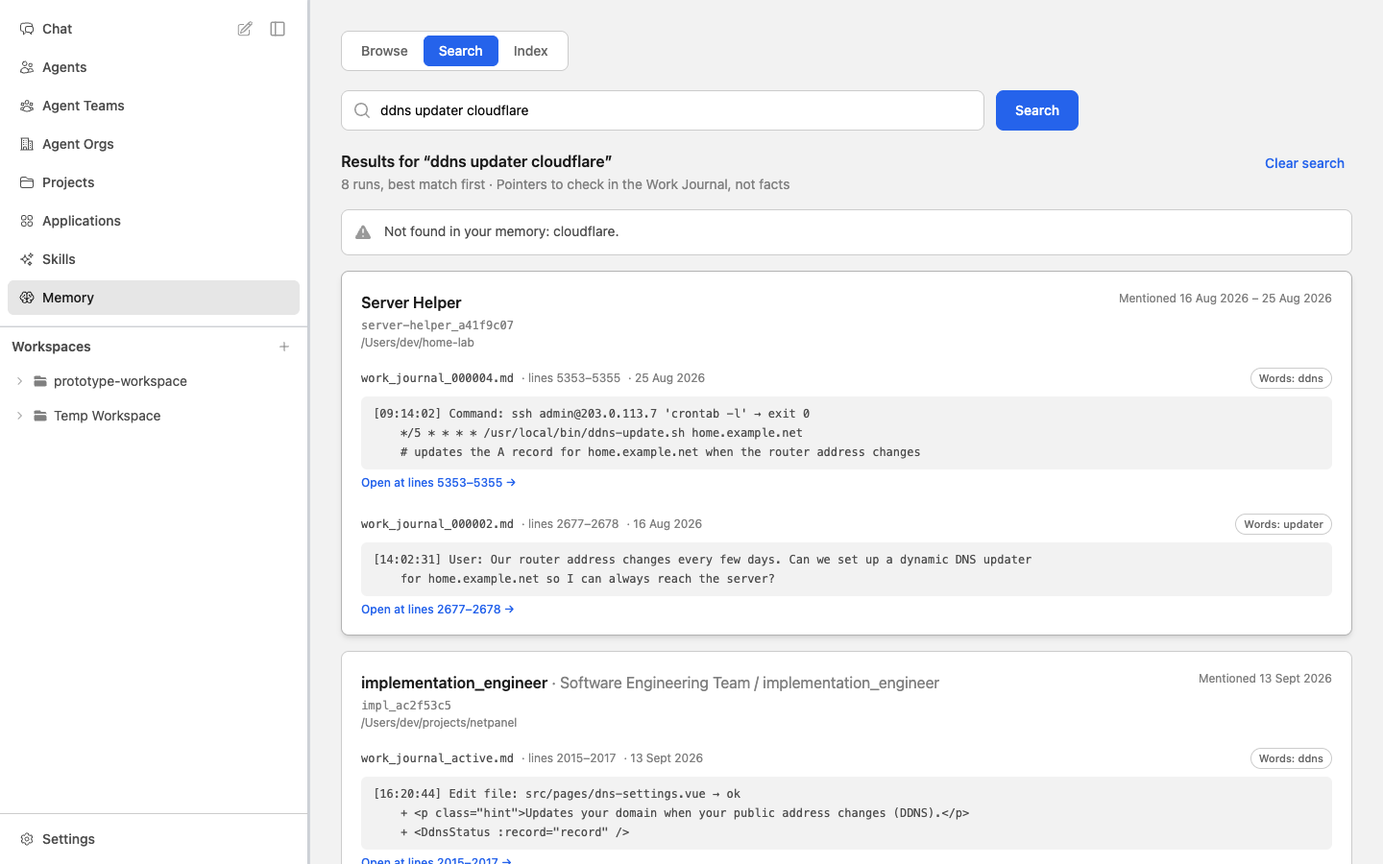
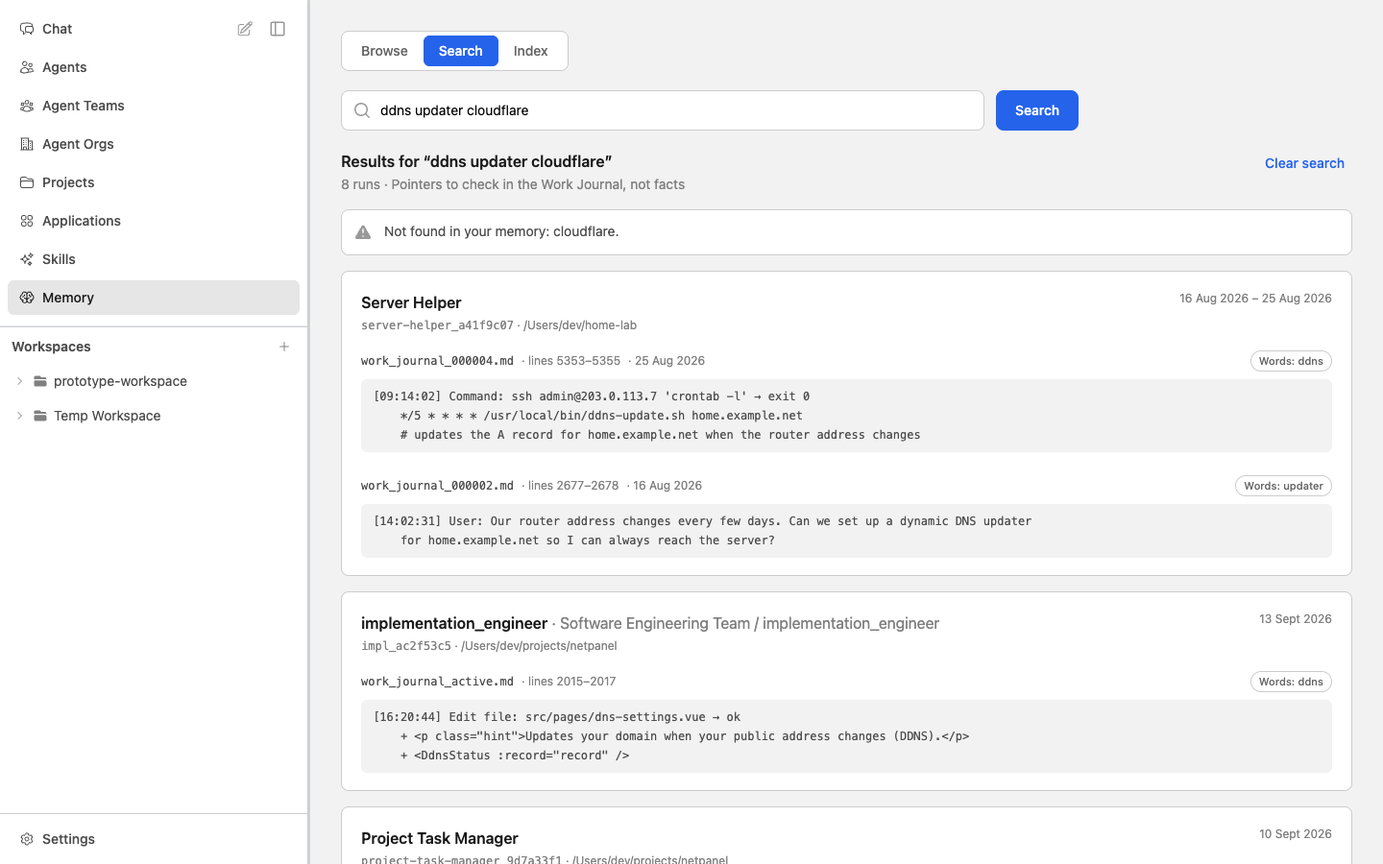
design(work-journal-search): cleaner result cards (no 'Mentioned', one-line run ID and workspace, day only when needed, Open on hover, shorter not-found note); VIS recaptured

diff --git a/components/memory/MemorySearchResults.vue b/components/memory/MemorySearchResults.vue
@@ -36,8 +36,7 @@
             <div class="flex flex-col gap-1 md:flex-row md:items-start md:justify-between md:gap-3">
               <div class="min-w-0">
                 <h3 class="break-words text-base font-semibold text-gray-900">{{ result.agentName }}<span v-if="result.team" class="font-normal text-gray-500"> · {{ result.team.name }}<template v-if="result.member"> / {{ result.member }}</template></span></h3>
-                <p class="mt-1 break-all font-mono text-xs text-gray-500">{{ result.runId }}</p>
-                <p v-if="result.workspace" class="mt-0.5 break-all text-xs text-gray-500">{{ result.workspace }}</p>
+                <p class="mt-1 break-all text-xs text-gray-500"><span class="font-mono">{{ result.runId }}</span><template v-if="result.workspace"> · {{ result.workspace }}</template></p>
               </div>
               <p class="flex-shrink-0 text-xs text-gray-500" data-test="memory-result-days">{{ days(result) }}</p>
             </div>
@@ -48,11 +47,13 @@
                 <div class="flex flex-wrap items-center gap-x-2 gap-y-1 text-xs text-gray-500">
                   <span class="font-mono text-gray-700">{{ match.file }}</span>
                   <span>· {{ $t('memory.results.lines', { from: match.fromLine, to: match.toLine }) }}</span>
-                  <span>· {{ formatDay(match.day) }}</span>
-                  <span v-if="match.kind === 'text'" class="ml-auto min-w-0 max-w-full rounded-full border border-gray-200 px-2 py-0.5 text-[11px] font-medium text-gray-600" data-test="memory-match-words">{{ $t('memory.results.words_label', { words: match.matchedWords.join($t('memory.results.word_separator')) }) }}</span>
+                  <span v-if="showMatchDay(result, match)">· {{ formatDay(match.day) }}</span>
+                  <span class="ml-auto flex min-w-0 max-w-full items-center gap-2">
+                    <span class="flex-shrink-0 text-xs font-medium text-blue-600 opacity-0 transition group-hover:opacity-100 group-focus-visible:opacity-100">{{ $t('memory.results.open') }} →</span>
+                    <span v-if="match.kind === 'text'" class="min-w-0 rounded-full border border-gray-200 px-2 py-0.5 text-[11px] font-medium text-gray-600" data-test="memory-match-words">{{ $t('memory.results.words_label', { words: match.matchedWords.join($t('memory.results.word_separator')) }) }}</span>
+                  </span>
                 </div>
                 <div class="mt-2 rounded-md bg-gray-50 px-3 py-2 font-mono text-xs leading-5 text-gray-700 group-hover:bg-white" data-test="memory-snippet"><div v-for="(line, i) in match.snippet" :key="i" class="truncate whitespace-pre">{{ line }}</div></div>
-                <p class="mt-1.5 text-xs font-medium text-blue-600 group-hover:underline">{{ $t('memory.results.open_at', { from: match.fromLine, to: match.toLine }) }} →</p>
               </button>
             </li>
           </ul>
@@ -84,6 +85,8 @@ const formatDay = (day: string) => {
   const date = new Date(`${day}T12:00:00Z`);
   return Number.isNaN(date.getTime()) ? day : date.toLocaleDateString(undefined, { day: 'numeric', month: 'short', year: 'numeric', timeZone: 'UTC' });
 };
+/** A match's own day is shown only when the card's date does not already say it. */
+const showMatchDay = (result: SearchResult, match: SearchMatch) => result.firstDay !== result.latestDay || match.day !== result.latestDay;
 const days = (result: SearchResult) => (result.firstDay === result.latestDay
   ? t('memory.results.mentioned_one', { day: formatDay(result.latestDay) })
   : t('memory.results.mentioned_range', { first: formatDay(result.firstDay), latest: formatDay(result.latestDay) }));

diff --git a/localization/messages/zh-CN/memory.ts b/localization/messages/zh-CN/memory.ts
@@ -46,7 +46,7 @@ const memoryMessages = {
   'memory.index.cancel': '取消',
   'memory.index.rebuild_confirm': '重建会重新执行每一步。运行期间搜索覆盖的记忆会减少。',
   'memory.results.title': '“{{cue}}”的结果',
-  'memory.results.count': '{{count}} 个运行，最佳匹配在前',
+  'memory.results.count': '{{count}} 个运行',
   'memory.results.pointers': '这是需要在工作日志中核对的线索，不是事实',
   'memory.results.clear': '清除搜索',
   'memory.results.searching': '正在搜索…',
@@ -54,10 +54,9 @@ const memoryMessages = {
   'memory.results.retry': '重试',
   'memory.results.coverage_text': '仍在建立索引：文本索引只覆盖了 {{percent}}% 的日志，较早的工作可能缺失。',
   'memory.results.coverage_meaning': '仍在建立索引：语义索引只覆盖了 {{percent}}% 的日志，之后可能出现更多语义匹配。',
-  'memory.results.mentioned_one': '提到于 {{day}}',
-  'memory.results.mentioned_range': '提到于 {{first}} – {{latest}}',
+  'memory.results.mentioned_one': '{{day}}',
+  'memory.results.mentioned_range': '{{first}} – {{latest}}',
   'memory.results.lines': '第 {{from}}–{{to}} 行',
-  'memory.results.open_at': '打开第 {{from}}–{{to}} 行',
   'memory.journal.found_from': '来自你的搜索“{{cue}}”',
   'memory.journal.found_lines': '匹配的行',
   'memory.journal.match_n': '匹配 {{number}}',
@@ -100,8 +99,9 @@ const memoryMessages = {
   'memory.badges.no_raw_traces': '没有原始轨迹',
   'memory.results.words_label': '词：{{words}}',
   'memory.results.word_separator': '、',
-  'memory.results.none_found': '你的记忆中没有出现这些词：{{words}}。下面的结果只是语义相关。',
+  'memory.results.none_found': '你的记忆中没有出现这些词：{{words}}。',
   'memory.results.some_not_found': '你的记忆中未找到：{{words}}。',
+  'memory.results.open': '打开',
 } satisfies TranslationCatalog;
 
 export default memoryMessages;

diff --git a/localization/messages/en/memory.ts b/localization/messages/en/memory.ts
@@ -46,7 +46,7 @@ const memoryMessages = {
   'memory.index.cancel': 'Cancel',
   'memory.index.rebuild_confirm': 'Rebuild starts every step again. Search covers less of your memory while it runs.',
   'memory.results.title': 'Results for “{{cue}}”',
-  'memory.results.count': '{{count}} runs, best match first',
+  'memory.results.count': '{{count}} runs',
   'memory.results.pointers': 'Pointers to check in the Work Journal, not facts',
   'memory.results.clear': 'Clear search',
   'memory.results.searching': 'Searching…',
@@ -54,10 +54,9 @@ const memoryMessages = {
   'memory.results.retry': 'Retry',
   'memory.results.coverage_text': 'Still indexing: the Text index covers {{percent}}% of your journals, so older work may be missing.',
   'memory.results.coverage_meaning': 'Still indexing: the Meaning index covers {{percent}}% of your journals, so more matches by meaning may appear.',
-  'memory.results.mentioned_one': 'Mentioned {{day}}',
-  'memory.results.mentioned_range': 'Mentioned {{first}} – {{latest}}',
+  'memory.results.mentioned_one': '{{day}}',
+  'memory.results.mentioned_range': '{{first}} – {{latest}}',
   'memory.results.lines': 'lines {{from}}–{{to}}',
-  'memory.results.open_at': 'Open at lines {{from}}–{{to}}',
   'memory.journal.found_from': 'From your search “{{cue}}”',
   'memory.journal.found_lines': 'Matched lines',
   'memory.journal.match_n': 'Match {{number}}',
@@ -100,8 +99,9 @@ const memoryMessages = {
   'memory.badges.no_raw_traces': 'No Raw traces',
   'memory.results.words_label': 'Words: {{words}}',
   'memory.results.word_separator': ', ',
-  'memory.results.none_found': 'None of these words appear in your memory: {{words}}. The results below are only related by meaning.',
+  'memory.results.none_found': 'None of these words appear in your memory: {{words}}.',
   'memory.results.some_not_found': 'Not found in your memory: {{words}}.',
+  'memory.results.open': 'Open',
 } satisfies TranslationCatalog;
 
 export default memoryMessages;

diff --git a/tickets/in-progress/work-journal-search/ui-ux-spec.md b/tickets/in-progress/work-journal-search/ui-ux-spec.md
@@ -34,7 +34,7 @@ Canonical contract for the Memory page of AutoByteus Web: memory search, the mem
   4. **The Search tab starts with the box centred, like Google's start page** (the user, round 4); the box moves to the top once there are results.
   5. **The pipeline is four connected step cards** with state, progress bar and "X of Y". The status headline above them says where the build is. No repeated "search by words / meaning ready" rows (the user: "is it really needed?").
   6. **Rebuild is always on the Index tab** (the user asked for it); it waits, greyed with a reason, while a build runs.
-  7. **No grade on a match; facts instead (UD-020, the user, 2026-10-27: "lets remove it. otherwise later during testing we still fail").** Embedding scores have no reliable absolute meaning, so the page shows what the index can check: a text match lists the search words found in it (`Words: ddns, home`); a meaning match has no label and no grade (a card without a `Words:` label is a meaning match); and a note names the search words that occur in no journal (`Not found in your memory: cloudflare.` or, when none of the words occur, `None of these words appear in your memory: purple, elephant. The results below are only related by meaning.`). The page never says "nothing in memory" while results exist. This replaces the earlier Strong / Fair / Weak chips and the amber "Only weak matches" note.
+  7. **No grade on a match; facts instead (UD-020, the user, 2026-10-27: "lets remove it. otherwise later during testing we still fail").** Embedding scores have no reliable absolute meaning, so the page shows what the index can check: a text match lists the search words found in it (`Words: ddns, home`); a meaning match has no label and no grade (a card without a `Words:` label is a meaning match); and a note names the search words that occur in no journal (`Not found in your memory: cloudflare.` or, when none of the words occur, `None of these words appear in your memory: purple, elephant.`). The page never says "nothing in memory" while results exist. This replaces the earlier Strong / Fair / Weak chips and the amber "Only weak matches" note.
   8. **Working Context is removed** from the run detail (user's question, round 4: "do we really need it?"; the Product UI/UX Designer recommended removal). It is the agent's live context window, not a record of what happened; the Work Journal is the readable account and Raw Traces the authority. The run detail has two tabs: Work Journal and Raw Traces.
   9. **Work Journal view uses windows of lines**, not endless scroll: a file can be several MB.
   10. **The old "Memory source" card is shown only when more than one memory source exists** (imported memory is held back); the search is local-only.
@@ -111,7 +111,7 @@ Canonical contract for the Memory page of AutoByteus Web: memory search, the mem
 
 **UXJ-002 Search and open.** Entry: Search tab. Type a cue, Enter or **Search**. A short searching state, then the results (one card per run, best first). The user clicks a match (or the card header, which opens the first match). The run detail opens on the Work Journal at the matched file and lines: the file is selected, the lines are highlighted and scrolled into view, a banner names the cue and the match (`lines 5353–5355 · Words: ddns, home`; a meaning match shows only `lines 310–311`), and, when the run has two matches, *Match 1 / Match 2* buttons jump between them. **Back to search results** returns to the same results (the cue is in the address). Visuals: VIS-006, VIS-017, VIS-024.
 
-**UXJ-003 Honest results.** Each text match lists the search words found in it; a meaning match carries no label. When some search words occur in no journal, a gray note names them (`Not found in your memory: cloudflare.`); when none of them do and the results are only related by meaning, an amber note says so (`None of these words appear in your memory: purple, elephant. The results below are only related by meaning.`), and the results are still listed. While the Text index is incomplete these notes are not shown (absence is not yet certain); only the coverage note is. Partial coverage: a blue note says how much the Text or Meaning index covers. Failure: a red note with **Retry**. The page never says "nothing in memory". Visuals: VIS-006, VIS-007, VIS-025, VIS-008, VIS-009, VIS-026.
+**UXJ-003 Honest results.** Each text match lists the search words found in it; a meaning match carries no label. When some search words occur in no journal, a gray note names them (`Not found in your memory: cloudflare.`); when none of them do, an amber note says so (`None of these words appear in your memory: purple, elephant.`), and the results are still listed. While the Text index is incomplete these notes are not shown (absence is not yet certain); only the coverage note is. Partial coverage: a blue note says how much the Text or Meaning index covers. Failure: a red note with **Retry**. The page never says "nothing in memory". Visuals: VIS-006, VIS-007, VIS-025, VIS-008, VIS-009, VIS-026.
 
 **UXJ-004 First build.** Not indexed: the Search box is disabled and says "Index your memory to search it…"; the Search tab offers **Index now**; the Index tab shows the first-time text and the four steps waiting, with **Index now**. Clicking starts the build (only by this click). The steps run in order; the headline reads `Step N of 4 · <step> P%`; the Index tab shows a spinner and the percent. As soon as the Text index has content the Search box is enabled and results say how much is covered. When the Meaning index finishes the headline reads `Up to date`. Visuals: VIS-010…VIS-014, VIS-023.
 
@@ -162,8 +162,8 @@ Canonical contract for the Memory page of AutoByteus Web: memory search, the mem
 | Browse: nothing yet | No memory of that kind | Existing empty copy | — | — | Unchanged — follows baseline |
 | Search empty | Open Search | Centred box; placeholder "Describe what you remember, in any words or language…" | Type | — | VIS-005 |
 | Search not indexed | Index never built | Disabled box ("Index your memory to search it…"); "Memory is not indexed yet" / "Index your memory once to search what your agents did before. Search by words is ready after about 5 minutes on a large memory." and **Index now** | Index now | Index tab | VIS-010 |
-| Search results | Cue answered | `Results for “<cue>”`, `N runs, best match first · Pointers to check in the Work Journal, not facts`; cards | Open, Clear search | Clear | VIS-006 |
-| Search: none of the words found | Every search word occurs in no journal; results exist | Amber note "None of these words appear in your memory: <words>. The results below are only related by meaning."; no match carries a `Words:` label | Open, new cue | Clear | VIS-007 |
+| Search results | Cue answered | `Results for “<cue>”`, `N runs · Pointers to check in the Work Journal, not facts`; cards | Open, Clear search | Clear | VIS-006 |
+| Search: none of the words found | Every search word occurs in no journal; results exist | Amber note "None of these words appear in your memory: <words>."; no match carries a `Words:` label | Open, new cue | Clear | VIS-007 |
 | Search: some words not found | Some search words occur in no journal | Gray note "Not found in your memory: <words>."; the matches list their found words | Open, new cue | Clear | VIS-025 |
 | Search partial coverage | A step incomplete | Blue note "Still indexing: the Text index covers N% of your journals, so older work may be missing." (or the Meaning index wording) | Open | — | VIS-008 |
 | Search failed | Search error | Red "The search could not be completed." with **Retry** | Retry, Clear | — | VIS-009 |
@@ -181,7 +181,7 @@ Canonical contract for the Memory page of AutoByteus Web: memory search, the mem
 ## Content, Labels, Validation, And Feedback
 
 - **Voice and wording.** Plain, short, no repeated words. Domain words: **memory**, **memory search**, **memory index**, **Work Journal**, **Raw traces**; the old words "Episodic" and "Semantic" appear nowhere (tabs, badges, strings, docs). Dates follow the browser locale.
-- **Exact labels.** Tabs: `Browse`, `Search`, `Index`. Browse sub-tabs: `Agents`, `Agent Teams`, `Agent Orgs`. Filter placeholders: `Filter agents by name or run ID…`, `Filter agent teams by name…`, `Filter agent orgs by name…`, `Filter runs by title or run ID…`. Search: `Search`, `Clear search`, `Retry`, `View the index`. Pipeline: `Find runs — Every run folder on this node`; `Journals — Each run’s Work Journal made current`; `Text index — Search by words works from here`; `Search by meaning, in the background` (Meaning index); step counts `X of Y runs|journal files · P%`; `Waiting`. Actions: `Index now`, `Try again`, `Rebuild`, `Cancel`. Match: `Words: <found words>` (text match only; separator `, `, in zh-CN `、`; a meaning match carries no label); notes `None of these words appear in your memory: <words>. The results below are only related by meaning.` and `Not found in your memory: <words>.`; `lines a–b`; `Open at lines a–b →`; `Mentioned <day>` / `Mentioned <first> – <latest>`. Journal: `Files`, `Active`, `Matched lines`, `Jump to day`, `Go to line`, `Go`, `Show 300 earlier lines`, `Show 300 later lines`, `<n> not shown`, `Lines a–b of N`, `From your search “<cue>”`, `Match 1`. Run detail tabs: `Work Journal`, `Raw Traces`. Exceptions note: `No Work Journal`, `No Raw traces`, `Archive`. Embedding note: `The Meaning index uses the embedding model chosen in Server Settings → Embedding (<model>).` with the link `Embedding settings` (to Server Settings → Embedding).
+- **Exact labels.** Tabs: `Browse`, `Search`, `Index`. Browse sub-tabs: `Agents`, `Agent Teams`, `Agent Orgs`. Filter placeholders: `Filter agents by name or run ID…`, `Filter agent teams by name…`, `Filter agent orgs by name…`, `Filter runs by title or run ID…`. Search: `Search`, `Clear search`, `Retry`, `View the index`. Pipeline: `Find runs — Every run folder on this node`; `Journals — Each run’s Work Journal made current`; `Text index — Search by words works from here`; `Search by meaning, in the background` (Meaning index); step counts `X of Y runs|journal files · P%`; `Waiting`. Actions: `Index now`, `Try again`, `Rebuild`, `Cancel`. Match: `Words: <found words>` (text match only; separator `, `, in zh-CN `、`; a meaning match carries no label); notes `None of these words appear in your memory: <words>.` and `Not found in your memory: <words>.`; `lines a–b`; `Open →` (shown on hover or keyboard focus of a match); `<day>` / `<first> – <latest>` (no "Mentioned" prefix). Journal: `Files`, `Active`, `Matched lines`, `Jump to day`, `Go to line`, `Go`, `Show 300 earlier lines`, `Show 300 later lines`, `<n> not shown`, `Lines a–b of N`, `From your search “<cue>”`, `Match 1`. Run detail tabs: `Work Journal`, `Raw Traces`. Exceptions note: `No Work Journal`, `No Raw traces`, `Archive`. Embedding note: `The Meaning index uses the embedding model chosen in Server Settings → Embedding (<model>).` with the link `Embedding settings` (to Server Settings → Embedding).
 - **Empty, error, and recovery messages.** As in State Behavior. The full English and Chinese (zh-CN) strings are in `localization/messages/{en,zh-CN}/memory.ts`.
 
 ### Form And Input Validation
@@ -241,7 +241,7 @@ All images are real browser screenshots at the stated viewport, taken through th
 | VIS-003 | UIS-005 Agent detail | 1440×900 | `visual-references/VIS-003-browse-agent-runs-desktop-1440x900.png` | Back link, name heading, filter, run cards (a retired agent named as recorded) | Run titles ("hello" included), IDs, paths, dates |
 | VIS-004 | UIS-006 Team detail (task team) | 1440×900 | `visual-references/VIS-004-browse-team-runs-task-team-desktop-1440x900.png` | Run cards with member chips, no "Members" label | Names, IDs, dates |
 | VIS-005 | UIS-003 Search, empty | 1440×900 | `visual-references/VIS-005-search-empty-centered-desktop-1440x900.png` | Centred box and button, placeholder | — |
-| VIS-006 | UXJ-002 Search results (text matches with found words) | 1440×900 | `visual-references/VIS-006-search-results-desktop-1440x900.png` | Result card anatomy, the `Words: …` label of each match, snippet, "Open at lines"; no grade | Cue, agent, IDs, paths, IP and domain, snippets, days |
+| VIS-006 | UXJ-002 Search results (text matches with found words) | 1440×900 | `visual-references/VIS-006-search-results-desktop-1440x900.png` | Result card anatomy, the `Words: …` label of each match, snippet, "Open →" on hover; no grade | Cue, agent, IDs, paths, IP and domain, snippets, days |
 | VIS-007 | UXJ-003 None of the search words found | 1440×900 | `visual-references/VIS-007-search-none-of-the-words-found-desktop-1440x900.png` | Amber note and copy; matches without a `Words:` label | Cue and results |
 | VIS-008 | UXJ-003 Partial coverage (Meaning index running) | 1440×900 | `visual-references/VIS-008-search-results-partial-coverage-desktop-1440x900.png` | Blue coverage note and copy; tab badge with percent | Percentages |
 | VIS-009 | UXJ-003 Search failed | 1440×900 | `visual-references/VIS-009-search-error-desktop-1440x900.png` | Red note with Retry, Clear search | — |
@@ -269,12 +269,12 @@ All images are real browser screenshots at the stated viewport, taken through th
 - Ticket record: `tickets/done/work-journal-search/product-ticket.md`
 - Run instructions: `ui-reference-runbook.md` (section `work-journal-search`); starting states: browser console `localStorage.setItem('autobyteus.prototype.scenario', '<name>')` with `memory_not_indexed`, `memory_meaning_running`, `memory_index_failed`, `memory_model_changed`, `memory_search_fails` (default = index ready).
 - Relevant supporting artifacts: `design-review-notes.md` (review rounds, decisions, open points).
-- Cues that show each state: `ddns updater for the home domain` (text matches with found words, one related by meaning), `bunny and tortoise` (game), `域名 自动更新` (Chinese), `purple elephant` (none of the words found, results only related by meaning), `ddns updater cloudflare` (some words not found: cloudflare).
+- Cues that show each state: `ddns updater for the home domain` (text matches with found words, some with no found words), `bunny and tortoise` (game), `域名 自动更新` (Chinese), `purple elephant` (none of the words found), `ddns updater cloudflare` (some words not found: cloudflare).
 - Mocked boundaries and limitations: the search, the index pipeline timing, the journal files and every list are invented and scripted (`prototype/memory-search/memoryDesignFixture.ts`, `stores/memorySearchStore.ts`, `stores/memoryJournalStore.ts`); nothing is read from a real node, run or journal; a reload resets all state.
 
 ## Implementation Fidelity Boundary
 
-- **Exact behavior and visible design implementation must preserve:** the three tabs and their order; no page title; the flat layout and the values above; the centred empty Search; result anatomy (agent, `team · member`, run ID, workspace, first and latest day, 1–2 matches newest first with file, lines, day, a 2–3 line snippet, and `Words: <found words>` for a text match only, no label on a meaning match; no grade of any kind); opening a result at its lines with the highlight and banner; the four-step pipeline with the states and progress shown; Index now only by the user's click; Rebuild always on the Index tab with its confirmation; the honest states and their copy (the "not found in your memory" notes, the coverage note, the error); Work Journal as the default run tab with Raw Traces beside it; no Episodic, Semantic or Working Context tab.
+- **Exact behavior and visible design implementation must preserve:** the three tabs and their order; no page title; the flat layout and the values above; the centred empty Search; result anatomy (agent, `team · member`, `run ID · workspace` on one line, the date or first–latest range without a prefix, a match's own day only when the card's date does not already say it, 1–2 matches newest first with file, lines, day, a 2–3 line snippet, and `Words: <found words>` for a text match only, no label on a meaning match; no grade of any kind); opening a result at its lines with the highlight and banner; the four-step pipeline with the states and progress shown; Index now only by the user's click; Rebuild always on the Index tab with its confirmation; the honest states and their copy (the "not found in your memory" notes, the coverage note, the error); Work Journal as the default run tab with Raw Traces beside it; no Episodic, Semantic or Working Context tab.
 - **UI reference state, fixtures, and simulated mechanisms that do not prescribe production architecture:** the stores, the scripted search, the timer-driven pipeline, the generated journal lines, and the GraphQL mock answers.
 - **Fixture content or visible details explicitly allowed to vary:** all names, IDs, paths, IPs, domains, counts, percentages, dates and times, and journal content; the exact scripted ordering of results.
 - **Permitted responsive or platform variation:** the breakpoints above; the browser's date format.

diff --git a/tickets/in-progress/work-journal-search/design-review-notes.md b/tickets/in-progress/work-journal-search/design-review-notes.md
@@ -72,7 +72,8 @@ Also needed, beyond the brief (open for the Solution Designer):
 
 Requested by the Solution Designer on the user's decision (embedding scores cannot grade a match reliably). Changes:
 - Each match shows facts: a text match lists the search words found in it (`Words: ddns, home`), a meaning match carries no label (the user, 2026-10-27: not needed; a card without `Words:` is a meaning match). No Strong / Fair / Weak, no dots, no numbers.
-- The amber "Only weak matches" note is replaced by facts about missing words: gray `Not found in your memory: <words>.` when some search words occur in no journal; amber `None of these words appear in your memory: <words>. The results below are only related by meaning.` when none do. Never "nothing in memory" while results exist. While the Text index is incomplete these notes are not shown (absence is not certain); only the coverage note is.
+- The amber "Only weak matches" note is replaced by facts about missing words: gray `Not found in your memory: <words>.` when some search words occur in no journal; amber `None of these words appear in your memory: <words>.` when none do. Never "nothing in memory" while results exist. While the Text index is incomplete these notes are not shown (absence is not certain); only the coverage note is.
 - The Work Journal banner says the same (`lines a–b · Words: ddns, home`; nothing extra for a meaning match).
 - The scripted reference derives each match's kind and words from its snippet and computes the missing words from the invented journals, so the facts are consistent. Cues: `purple elephant` (none found), `ddns updater cloudflare` (some not found).
 - Recaptured: VIS-006, 007, 008, 017, 022, 024; new: VIS-025, VIS-026. All others are unchanged.
+- Card tidying (the user, 2026-10-27: "make the UI a bit clean"): the amber note is only `None of these words appear in your memory: <words>.`; no "Mentioned" prefix on the date; the run ID and workspace share one line; a match shows its own day only when the card's date does not already say it; `Open →` appears only on hover or focus; the result subtitle reads `N runs · Pointers to check in the Work Journal, not facts`.
